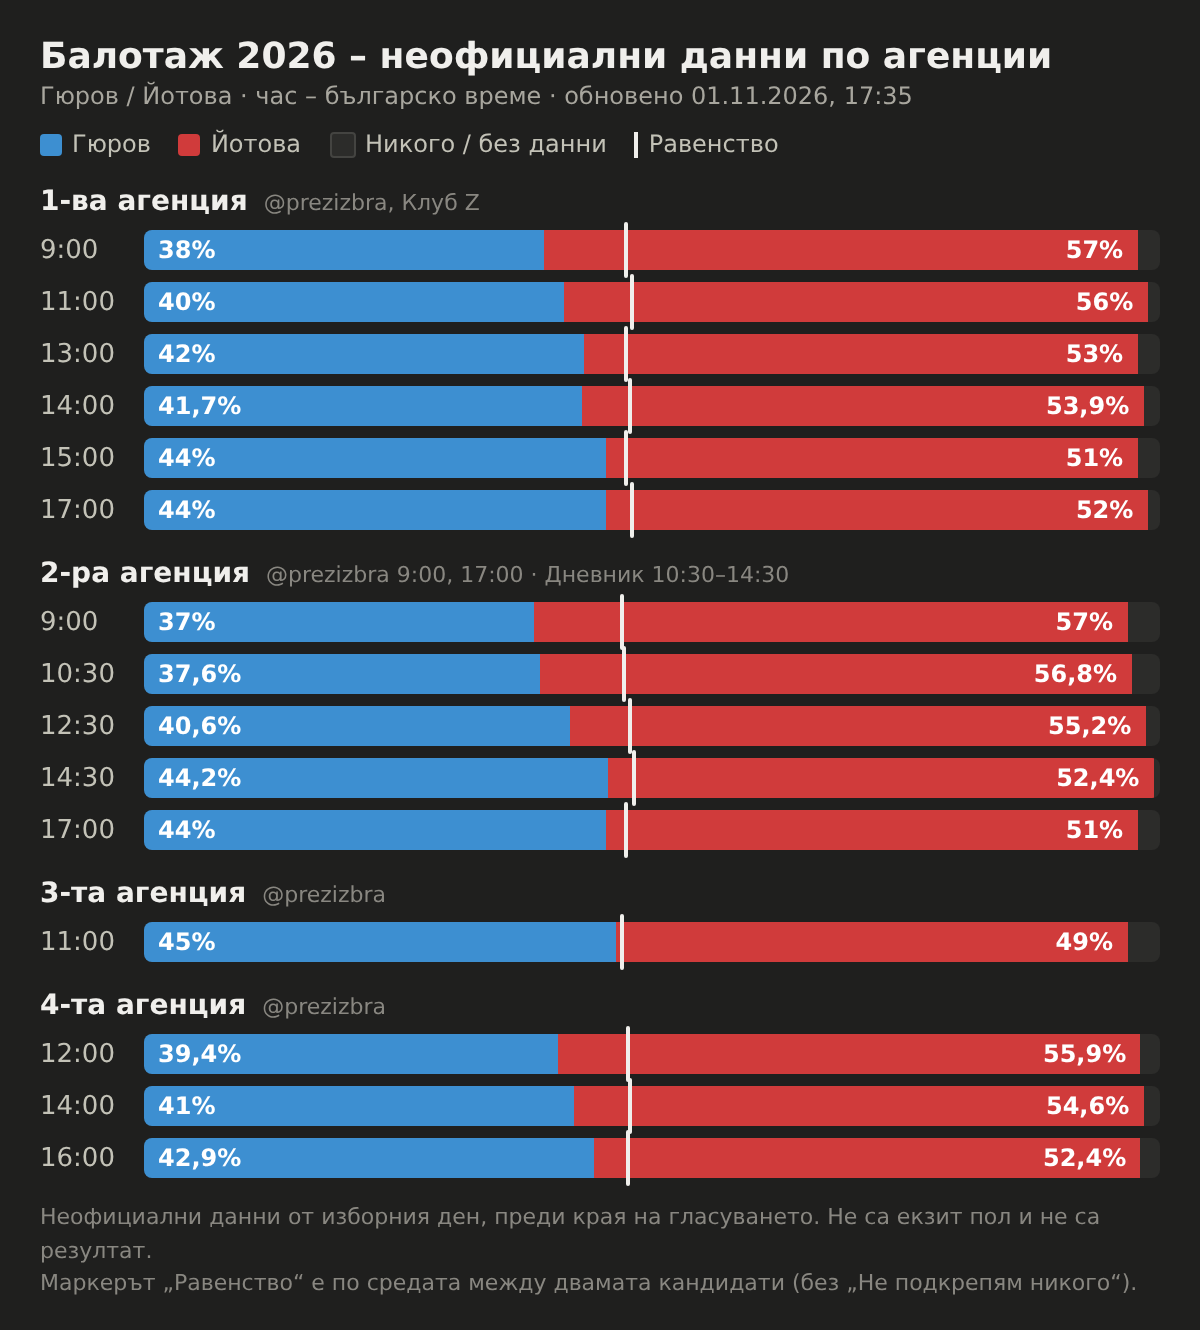
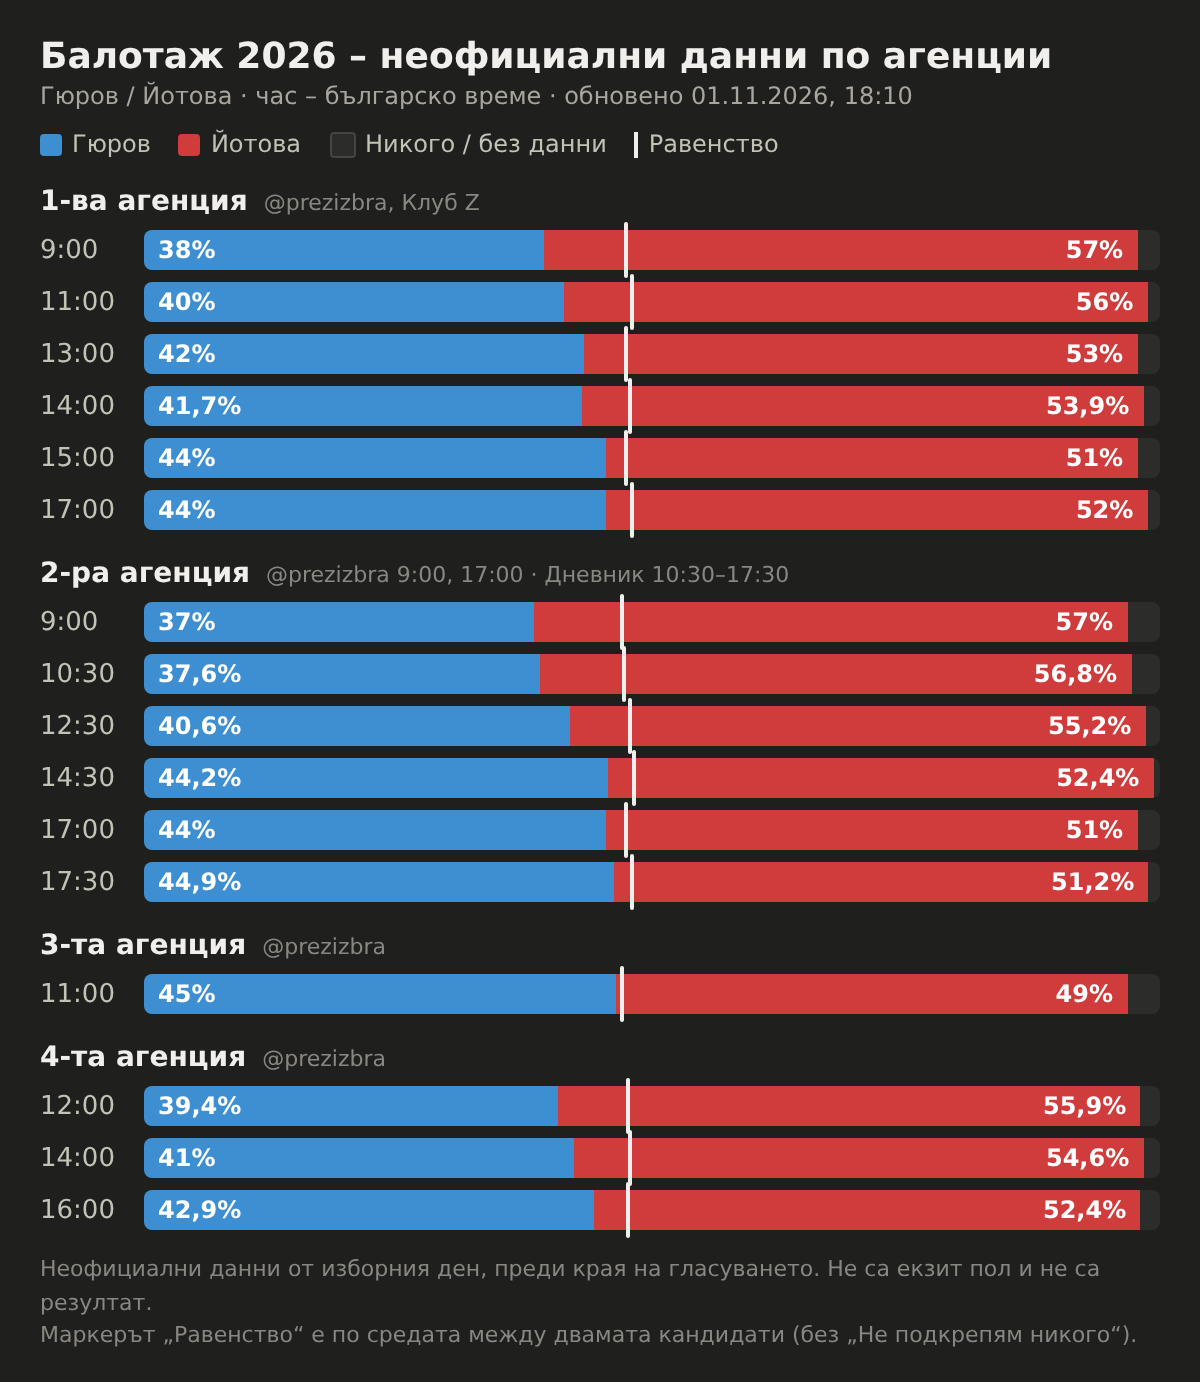
Балотаж 01.11.2026: обновяване 18:10 (2-ра агенция, Дневник 17:30)
Claude-Session: https://claude.ai/code/session_013Bd4dyu327vEa7zhwf3xyn

diff --git a/bg-runoff-2026.11.01.html b/bg-runoff-2026.11.01.html
@@ -22,7 +22,7 @@ h1{font-size:18px;font-weight:600;margin:0 0 2px}
 .leg span{display:flex;align-items:center;gap:5px}
 .foot{font-size:11px;color:var(--text-muted);margin-top:12px;line-height:1.5}
 </style></head><body><div class="wrap">
-<h1>Балотаж 2026 – неофициални данни по агенции</h1><div class="sub">Гюров / Йотова · час – българско време · обновено 01.11.2026, 17:35</div>
+<h1>Балотаж 2026 – неофициални данни по агенции</h1><div class="sub">Гюров / Йотова · час – българско време · обновено 01.11.2026, 18:10</div>
 <div class="leg">
 <span><i style="width:11px;height:11px;border-radius:2px;background:#3d8fd1;display:inline-block"></i>Гюров</span>
 <span><i style="width:11px;height:11px;border-radius:2px;background:#d03b3b;display:inline-block"></i>Йотова</span>
@@ -33,7 +33,7 @@ h1{font-size:18px;font-weight:600;margin:0 0 2px}
 <div class="foot">Неофициални данни от изборния ден, преди края на гласуването. Не са екзит пол и не са резултат.<br>Маркерът „Равенство“ е по средата между двамата кандидати (без „Не подкрепям никого“).</div>
 </div>
 <script>
-const A=[["1-ва агенция", "@prezizbra, Клуб Z", [["9:00", 38, 57], ["11:00", 40, 56], ["13:00", 42, 53], ["14:00", 41.7, 53.9], ["15:00", 44, 51], ["17:00", 44, 52]]], ["2-ра агенция", "@prezizbra 9:00, 17:00 · Дневник 10:30–14:30", [["9:00", 37, 57], ["10:30", 37.6, 56.8], ["12:30", 40.6, 55.2], ["14:30", 44.2, 52.4], ["17:00", 44, 51]]], ["3-та агенция", "@prezizbra", [["11:00", 45, 49]]], ["4-та агенция", "@prezizbra", [["12:00", 39.4, 55.9], ["14:00", 41, 54.6], ["16:00", 42.9, 52.4]]]];
+const A=[["1-ва агенция", "@prezizbra, Клуб Z", [["9:00", 38, 57], ["11:00", 40, 56], ["13:00", 42, 53], ["14:00", 41.7, 53.9], ["15:00", 44, 51], ["17:00", 44, 52]]], ["2-ра агенция", "@prezizbra 9:00, 17:00 · Дневник 10:30–17:30", [["9:00", 37, 57], ["10:30", 37.6, 56.8], ["12:30", 40.6, 55.2], ["14:30", 44.2, 52.4], ["17:00", 44, 51], ["17:30", 44.9, 51.2]]], ["3-та агенция", "@prezizbra", [["11:00", 45, 49]]], ["4-та агенция", "@prezizbra", [["12:00", 39.4, 55.9], ["14:00", 41, 54.6], ["16:00", 42.9, 52.4]]]];
 const f=v=>String(v).replace('.',',')+'%';
 document.getElementById('w').innerHTML=A.map(a=>'<div class="ag">'+a[0]+'<span>'+a[1]+'</span></div>'+a[2].map(r=>{const eq=(r[1]+r[2])/2;return '<div class="r"><span class="t">'+r[0]+'</span><div class="box"><div class="trk"><div class="seg g" style="width:'+r[1]+'%;background:#3d8fd1">'+f(r[1])+'</div><div class="seg y" style="width:'+r[2]+'%;background:#d03b3b">'+f(r[2])+'</div></div><span class="mid" style="left:'+eq+'%"></span></div></div>'}).join('')).join('');
 </script></body></html>
